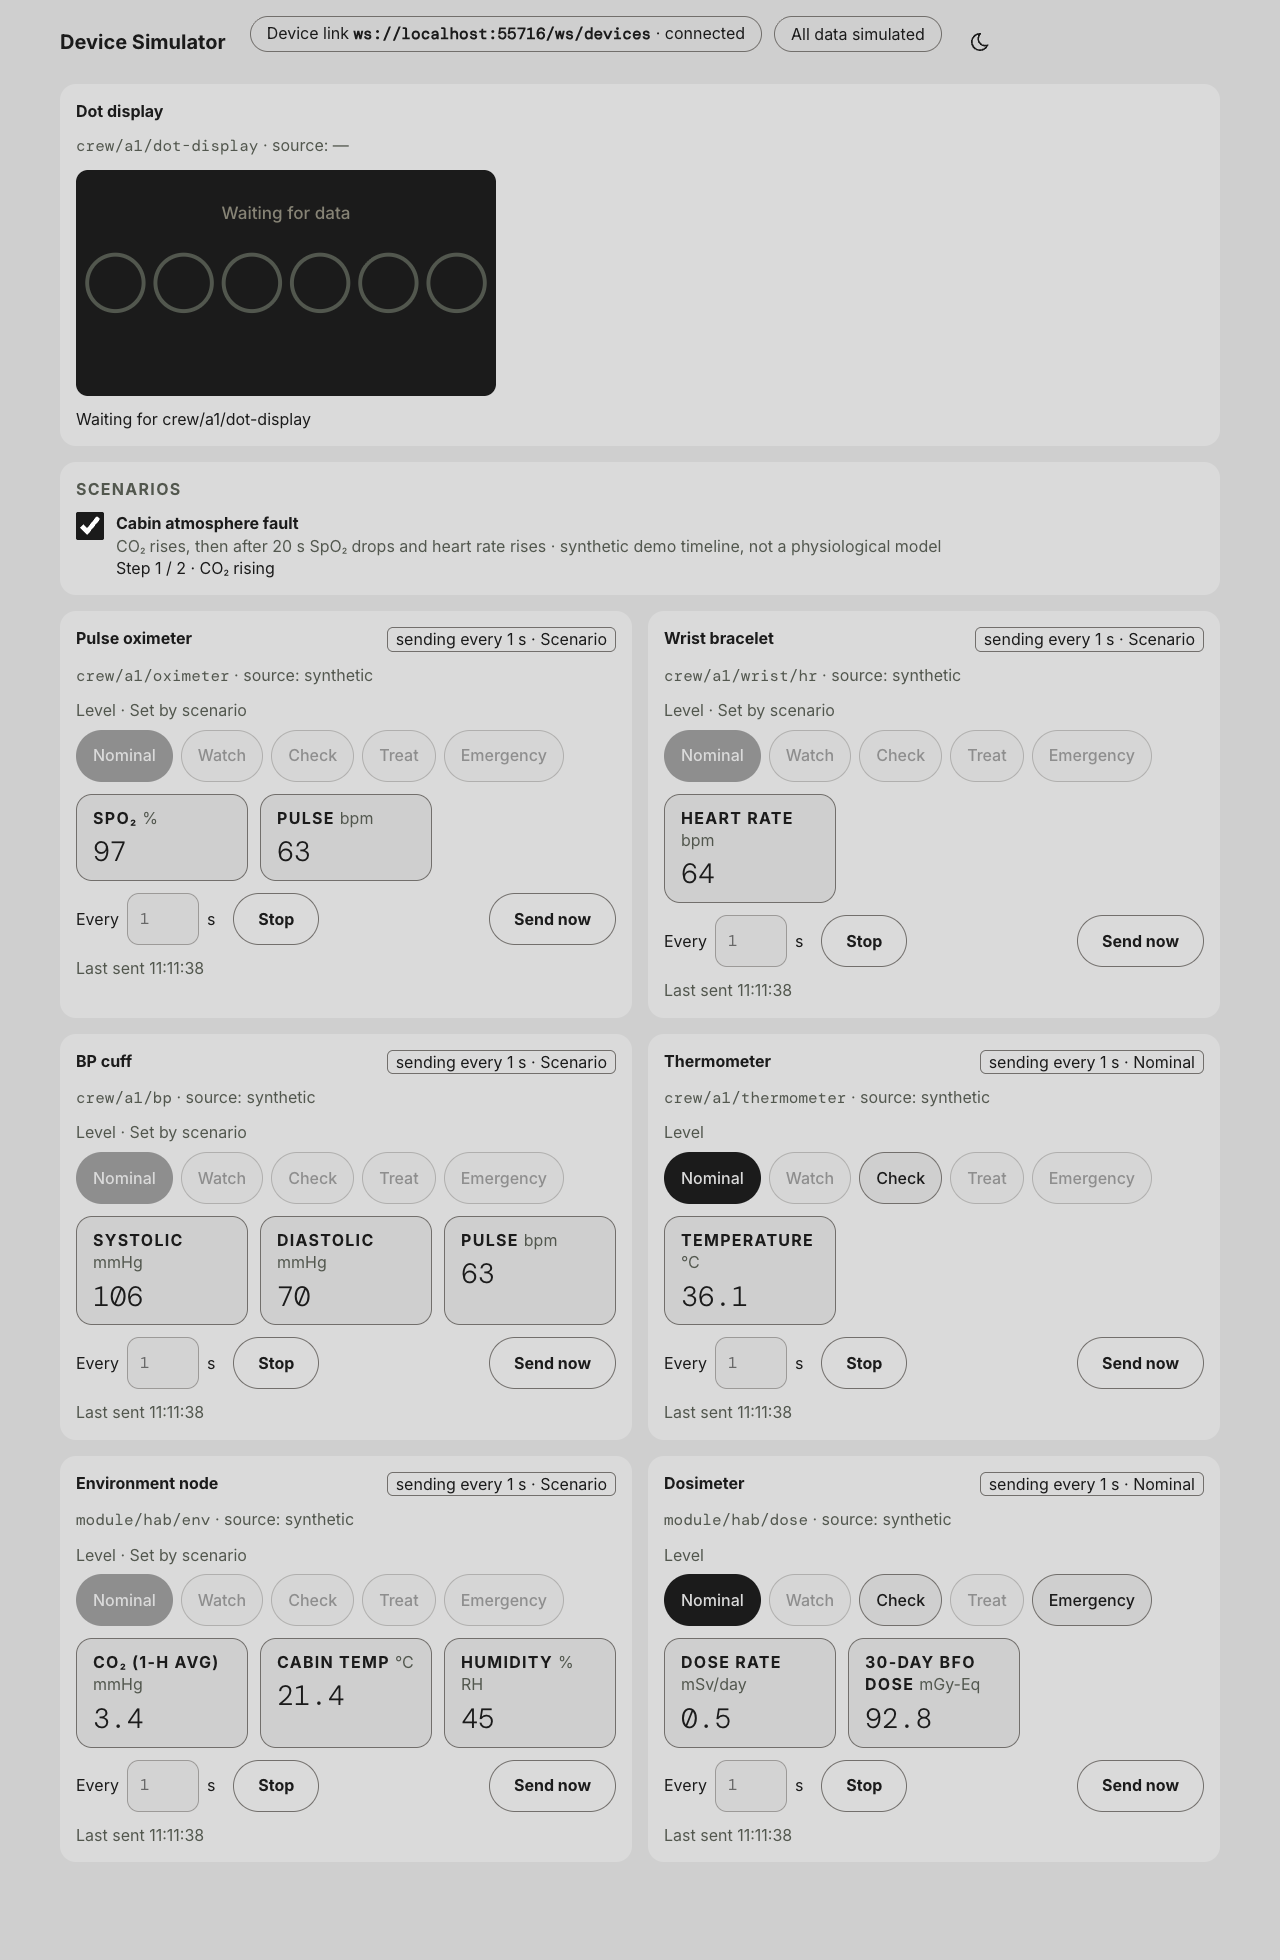
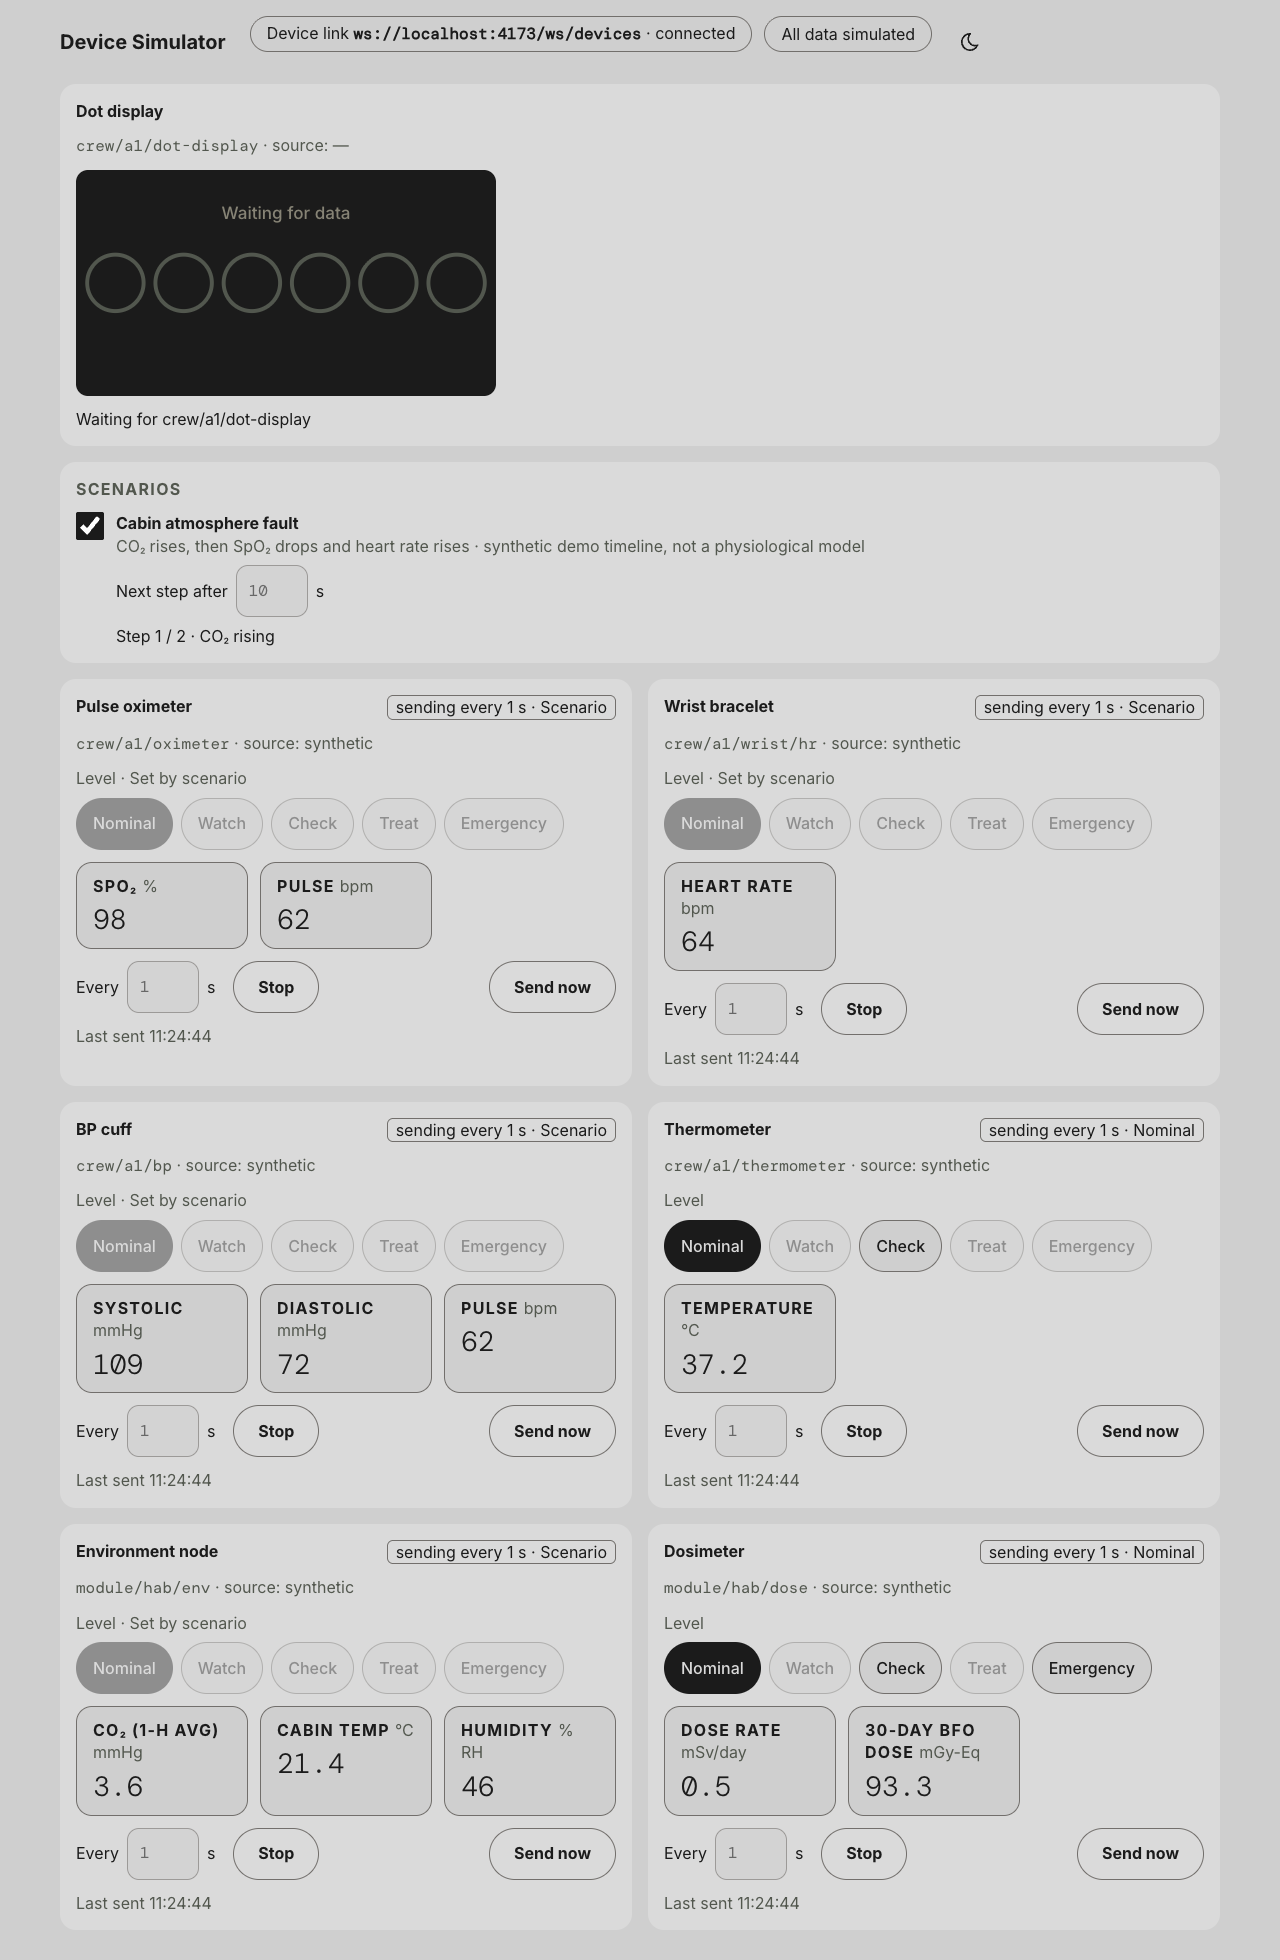
docs(simulator): scenario step delay in docs and screenshots (#53)

diff --git a/ideas/features.md b/ideas/features.md
@@ -93,7 +93,7 @@ Each feature has: what it is, why it matters, how it works, an example, what it 
 - **How:** the simulator publishes readings over the device link; the crew app listens. Scenarios are timelines of values (nominal day, CO₂ build-up). Every reading is labeled "simulated", "replay" or "synthetic".
 - **Needs:** the shared message format agreed on day 1 (F9). Can be built in parallel from hour 1.
 - **More:** idea file "Device Simulator: a second app"; mockup [04-simulator.png](mockups/04-simulator.png).
-- **Status:** `/simulator.html` has one section per device (pulse oximeter, wrist bracelet, BP cuff, thermometer, environment node, dosimeter). Each starts sending on page load at its `SIM_CONFIG` level and period (`simulator/simDevices.ts`: every device Nominal, every 1 s) and has a Level picker (Nominal, Watch, Check, Treat, Emergency; a level with no rule row for the device is disabled), Stop/Start with a 1–3600 s period, Send now, and tiles with the last values sent (issue #43). Values are drawn at random inside the level's range, which comes from the `below`/`above` rule rows only (`domain/levelValues.ts`; drift rows such as CV-03 are ignored, so heart-rate devices keep Nominal and Check); a level applies per indicator across devices, so the three heart-rate fields agree. Every reading is `synthetic`. A Dot display card at the top (issue #45) shows what the display shows from `crew/a1/dot-display`: the panel, a `receiving` tag while a payload arrived in the last 30 s, `Health status <pct> % · worst level <Level> · <n> of <total> metrics nominal`, and a table of each metric's value, level (or `Stale · <last level>`), rule, reading time and device source. A Scenarios card above the devices (issue #53) has one checkbox, "Cabin atmosphere fault" (`simulator/scenarios.ts`): CO₂ 3.2–3.8 mmHg from the check, then from 20 s also SpO₂ 91–93 % and the three heart-rate fields 105–115 bpm, held until unchecked, with a "Step <n> / 2" line; the oximeter, bracelet, BP cuff and environment node pickers are locked at Nominal ("Set by scenario") while it runs and come back at Nominal. Missing: scenarios (CO₂ build-up with real CO₂ replay, headache and slower PVT, resting HR drift, orthostatic risk, solar particle event, sensor dropout), GATT byte payloads, mission clock, device on/off, dropout and battery controls.
+- **Status:** `/simulator.html` has one section per device (pulse oximeter, wrist bracelet, BP cuff, thermometer, environment node, dosimeter). Each starts sending on page load at its `SIM_CONFIG` level and period (`simulator/simDevices.ts`: every device Nominal, every 1 s) and has a Level picker (Nominal, Watch, Check, Treat, Emergency; a level with no rule row for the device is disabled), Stop/Start with a 1–3600 s period, Send now, and tiles with the last values sent (issue #43). Values are drawn at random inside the level's range, which comes from the `below`/`above` rule rows only (`domain/levelValues.ts`; drift rows such as CV-03 are ignored, so heart-rate devices keep Nominal and Check); a level applies per indicator across devices, so the three heart-rate fields agree. Every reading is `synthetic`. A Dot display card at the top (issue #45) shows what the display shows from `crew/a1/dot-display`: the panel, a `receiving` tag while a payload arrived in the last 30 s, `Health status <pct> % · worst level <Level> · <n> of <total> metrics nominal`, and a table of each metric's value, level (or `Stale · <last level>`), rule, reading time and device source. A Scenarios card above the devices (issue #53) has one checkbox, "Cabin atmosphere fault" (`simulator/scenarios.ts`): CO₂ 3.2–3.8 mmHg from the check, then after the "Next step after" delay (default 10 s, editable while unchecked) also SpO₂ 91–93 % and the three heart-rate fields 105–115 bpm, held until unchecked, with a "Step <n> / 2" line; the oximeter, bracelet, BP cuff and environment node pickers are locked at Nominal ("Set by scenario") while it runs and come back at Nominal. Missing: scenarios (CO₂ build-up with real CO₂ replay, headache and slower PVT, resting HR drift, orthostatic risk, solar particle event, sensor dropout), GATT byte payloads, mission clock, device on/off, dropout and battery controls.
 
 #### F9. Personal Health Gateway · Must (simple version)
 - **What:** the part of the app that receives readings from any source (device, manual entry, replay) and turns them into one standard format (FHIR `Observation`) with source and timestamp.

diff --git a/CLAUDE.md b/CLAUDE.md
@@ -30,7 +30,7 @@ This file provides guidance to Claude Code (claude.ai/code) when working with co
 - Backend: Kotlin + Spring Boot WebFlux, package `com.galagans.crewhealth`, one folder per domain with `api` (controller, DTOs), `application` (use cases behind interfaces), `domain` (models, repository ports), `infrastructure` (adapters). Public Spring libraries only, no LeoVegas/hyraco parent or libs.
 - Frontend (`src/main/frontend/src`): `domain` (types, ports), `application` (use cases depending on ports), `infrastructure` (IndexedDB, HTTP, browser adapters), `ui` (React, services via `ServicesContext`), `container.ts` is the only place that picks concrete classes.
 - Device readings: `domain/devices.ts` lists each device (topic, payload fields → indicators, input limits). `container.ts` creates one `PersonalHealthGateway` per device, each fed by a `WebSocketReadingSource` for its topic over one shared `DeviceLink` (infrastructure, one socket, 5 s reconnect, no queueing). A new device is a row there plus its `READINGS` tile; the gateway validates each message and stores FHIR-shaped Observations in their own IndexedDB database. The rules read `ObservationHistory` (check-ins mapped to Observations plus the device ones), and the screens re-read when the gateway stores a reading. Observations don't sync to the ground station yet. The relay (`com.galagans.crewhealth.device`) stands in for the spacecraft LAN: it stores nothing and runs no rules.
-- Device Simulator (`src/main/frontend/src/simulator/`): a second Vite entry, kept out of the crew service worker, that publishes through `DeviceLink`; it imports only `READINGS`, `newId`, `DeviceLink`, theme and icons, `domain/devices.ts`, `domain/levelValues.ts`, `domain/rules.ts` types, `resolveRules` with `rules.json` and `baseline.json`, `infrastructure/WebSocketReadingSource` from the crew app, and `device/DeviceScreen`, `device/LinkFeed`, `device/DotFeed`, `device/dotDisplay`, `device/device.css` for its Dot display card. Each device sends from page load at a health level picked per device (`SIM_CONFIG` in `simDevices.ts` holds the defaults); values are drawn inside that level's range from the rule rows only (`domain/levelValues.ts`). Scenarios are rows in `simulator/scenarios.ts`: timed steps of value ranges per indicator that override the levels of the devices they drive.
+- Device Simulator (`src/main/frontend/src/simulator/`): a second Vite entry, kept out of the crew service worker, that publishes through `DeviceLink`; it imports only `READINGS`, `newId`, `DeviceLink`, theme and icons, `domain/devices.ts`, `domain/levelValues.ts`, `domain/rules.ts` types, `resolveRules` with `rules.json` and `baseline.json`, `infrastructure/WebSocketReadingSource` from the crew app, and `device/DeviceScreen`, `device/LinkFeed`, `device/DotFeed`, `device/dotDisplay`, `device/device.css` for its Dot display card. Each device sends from page load at a health level picked per device (`SIM_CONFIG` in `simDevices.ts` holds the defaults); values are drawn inside that level's range from the rule rows only (`domain/levelValues.ts`). Scenarios are rows in `simulator/scenarios.ts`: steps of value ranges per indicator, one delay apart (default `delayS`, editable in the card), that override the levels of the devices they drive.
 - Hardware (`src/main/hardware/<device>/`): one PlatformIO project per physical device. The dot display (Waveshare ESP32-C6-Touch-LCD-1.47, env `c6`, default; the S3 version is env `s3`; mockup 13) keeps its rules in `lib/dotcore` (pure C++, native tests) and only drawing and networking in `src/`. It subscribes to the relay like the crew app and keeps one topic, `crew/a1/dot-display` (`{id, t, pct, level, src, metrics}` from the backend's health engine; only `pct` is read).
 - Device screen (`src/main/frontend/src/device/`): a third Vite entry (`device.html`), kept out of the crew service worker, that draws the dot display's panel as a 320 × 172 SVG scaled to the browser. `dotDisplay.ts` is a TypeScript copy of the firmware's `lib/dotcore` with the same test cases: change both together. `DotFeed` has two adapters, `ScenarioFeed` (simulation) and `LinkFeed` (`DeviceLink` + `WebSocketReadingSource`).
 - Offline-first flow: the check-in is written to IndexedDB as pending, `SyncService` posts pending items to `POST /api/checkins/sync` when online (on start, after each save, on the `online` event) and marks the accepted ids synced. The server upsert is idempotent by client-generated id.

diff --git a/docs/features/53-sim-scenarios.md b/docs/features/53-sim-scenarios.md
@@ -1,10 +1,10 @@
 # Device Simulator scenarios: Cabin atmosphere fault (#53)
 
-The Device Simulator gets a Scenarios card above the devices. Checking "Cabin atmosphere fault" makes one hazard drive several devices over time: cabin CO₂ rises at once, and 20 s later SpO₂ drops and the three heart-rate fields rise, until the operator unchecks it, which puts the four devices back at Nominal. The crew app's rules react to the values as they do to any reading (CAB-01, SPO-01 and CV-01, all Check).
+The Device Simulator gets a Scenarios card above the devices. Checking "Cabin atmosphere fault" makes one hazard drive several devices over time: cabin CO₂ rises at once, and after a delay ("Next step after", 10 s by default, 1–3600 s, fixed while the scenario runs) SpO₂ drops and the three heart-rate fields rise, until the operator unchecks it, which puts the four devices back at Nominal. The crew app's rules react to the values as they do to any reading (CAB-01, SPO-01 and CV-01, all Check).
 
-Try it: `mvn spring-boot:run`, open `http://localhost:8080/simulator.html` and the crew app side by side, check "Cabin atmosphere fault". Cabin air flags first, then Respiratory and Cardiovascular after 20 s. Uncheck it to go back to nominal.
+Try it: `mvn spring-boot:run`, open `http://localhost:8080/simulator.html` and the crew app side by side, check "Cabin atmosphere fault". Cabin air flags first, then Respiratory and Cardiovascular after the delay. Uncheck it to go back to nominal.
 
-Scenarios are rows in `src/main/frontend/src/simulator/scenarios.ts`: each step has a start time and a value range per indicator, and a range overrides that indicator's level on every device that carries it. Values and timeline are synthetic; the caption says so.
+Scenarios are rows in `src/main/frontend/src/simulator/scenarios.ts`: steps start one delay apart (`delayS` is the default) and each has a value range per indicator, and a range overrides that indicator's level on every device that carries it. Values and timeline are synthetic; the caption says so.
 
 ## Unchecked
 
@@ -12,13 +12,13 @@ Page load: the checkbox is unchecked, no step line, every picker as before.
 
 ![Unchecked](img/53-unchecked.png)
 
-## Step 1: CO₂ rising (0–20 s)
+## Step 1: CO₂ rising (0 s to the delay)
 
 Checked: CO₂ (1-h avg) 3.2–3.8 mmHg, everything else Nominal. The oximeter, bracelet, BP cuff and environment node pickers read "Level · Set by scenario", are disabled at Nominal and tag "Scenario"; Thermometer and Dosimeter stay editable.
 
 ![Step 1](img/53-step-1.png)
 
-## Step 2: SpO₂ and heart rate (from 20 s)
+## Step 2: SpO₂ and heart rate (from the delay)
 
 SpO₂ 91–93 %, oximeter pulse, bracelet heart rate and BP cuff pulse 105–115 bpm, CO₂ still 3.2–3.8 mmHg, systolic and diastolic Nominal. Holds until unchecked.
 
